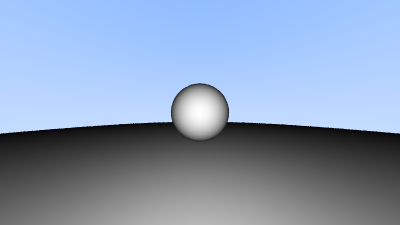
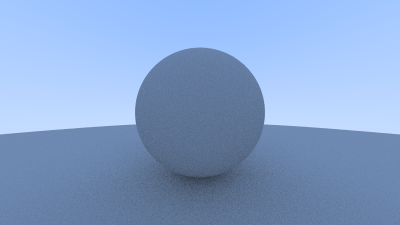
feat: basic recursive ray tracing

diff --git a/src/camera.rs b/src/camera.rs
@@ -3,7 +3,7 @@ use rand::Rng;
 use crate::ImageWriter;
 use crate::ray::Ray;
 use crate::scene::Scene;
-use crate::vector::Vector3d;
+use crate::vector::{Color, Vector3d};
 
 pub struct Camera {
     image_width: usize,
@@ -12,6 +12,7 @@ pub struct Camera {
     gaze_center: Vector3d,
     fov: f64,
     sample_cnt: usize,
+    max_bounce: usize,
 }
 
 impl Camera {
@@ -22,6 +23,7 @@ impl Camera {
         camera_center: Vector3d,
         gaze_center: Vector3d,
         sample_cnt: usize,
+        max_bounce: usize,
     ) -> Self {
         Camera {
             image_width,
@@ -30,6 +32,7 @@ impl Camera {
             gaze_center,
             fov,
             sample_cnt,
+            max_bounce,
         }
     }
 
@@ -64,22 +67,10 @@ impl Camera {
                         + viewport_u_delta * rng.random_range(-0.5..=0.5)
                         + viewport_v_delta * rng.random_range(-0.5..=0.5);
 
-                    let ray_direction = sample_pixel - self.camera_center;
-                    let ray_direction_norm = ray_direction.unit_vec();
-                    let primary_ray = Ray::new(self.camera_center, ray_direction);
+                    let primary_ray =
+                        Ray::new(self.camera_center, sample_pixel - self.camera_center);
 
-                    let hit_info = scene.hit_test(&primary_ray);
-
-                    let mut t = ray_direction_norm[1];
-                    t = (t + 1.0) * 0.5;
-
-                    if hit_info.if_hit {
-                        let kd = Vector3d::dot_product(hit_info.normal, ray_direction_norm);
-                        color += Vector3d::new([kd.abs(), kd.abs(), kd.abs()])
-                    } else {
-                        color += Vector3d::new([1.0, 1.0, 1.0]) * (1.0 - t)
-                            + Vector3d::new([0.5, 0.7, 1.0]) * t;
-                    }
+                    color += self.hit_test(&primary_ray, scene, self.max_bounce);
                 }
 
                 color /= self.sample_cnt as f64;
@@ -90,5 +81,35 @@ impl Camera {
         }
 
         image_writer.write_to_file();
+    }
+
+    fn hit_test(&self, primary_ray: &Ray, scene: &Scene, remaining_bounce: usize) -> Color {
+        if remaining_bounce == 0 {
+            return Color::zeros();
+        }
+
+        let mut rng = rand::rng();
+
+        let hit_info = scene.hit_test(&primary_ray);
+        if hit_info.if_hit {
+            // scatter light randomly in a semi-sphere using a rejection method
+            let hit_point = primary_ray.at(hit_info.t);
+            let scatter_ray = loop {
+                let test_scatter_ray = Vector3d::new([
+                    rng.random_range(-1.0..=1.0),
+                    rng.random_range(-1.0..=1.0),
+                    rng.random_range(-1.0..=1.0),
+                ]);
+                if Vector3d::dot_product(test_scatter_ray, hit_info.normal) >= 0.0 {
+                    break Ray::new(hit_point, test_scatter_ray);
+                }
+            };
+
+            self.hit_test(&scatter_ray, scene, remaining_bounce - 1) * 0.7
+        } else {
+            let mut t = primary_ray.direction.unit_vec()[1];
+            t = (t + 1.0) * 0.5;
+            Color::new([1.0, 1.0, 1.0]) * (1.0 - t) + Color::new([0.5, 0.7, 1.0]) * t
+        }
     }
 }

diff --git a/src/main.rs b/src/main.rs
@@ -17,14 +17,15 @@ fn main() {
         16.0 / 9.0,
         Vector3d::new([0.0, 0.0, 0.0]),
         Vector3d::new([0.0, 0.0, 1.0]),
-        16,
+        128,
+        32,
     );
 
     let mut main_scene = Scene::new();
 
-    main_scene.add_object(Box::new(Sphere::new(Vector3d::new([0.0, 0.0, 2.0]), 0.5)));
+    main_scene.add_object(Box::new(Sphere::new(Vector3d::new([0.0, 0.0, 1.0]), 0.5)));
     main_scene.add_object(Box::new(Sphere::new(
-        Vector3d::new([0.0, -100.5, 2.0]),
+        Vector3d::new([0.0, -100.5, 1.0]),
         100.0,
     )));
 

diff --git a/src/scene/mod.rs b/src/scene/mod.rs
@@ -40,7 +40,7 @@ impl Scene {
 
         for obj in &self.objects {
             let hit_info = obj.hit_test(ray);
-            if hit_info.if_hit {
+            if hit_info.if_hit && hit_info.t > 0.00001 {
                 res_hit_info.if_hit = true;
                 if hit_info.t < res_hit_info.t {
                     res_hit_info.t = hit_info.t;

diff --git a/src/vector/alias.rs b/src/vector/alias.rs
@@ -11,3 +11,6 @@ pub type Vector2d = Vector<f64, 2>;
 
 #[allow(dead_code)]
 pub type Vector3d = Vector<f64, 3>;
+
+#[allow(dead_code)]
+pub type Color = Vector3d;
